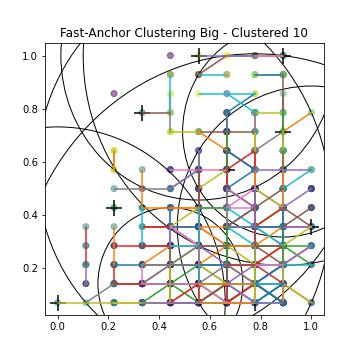
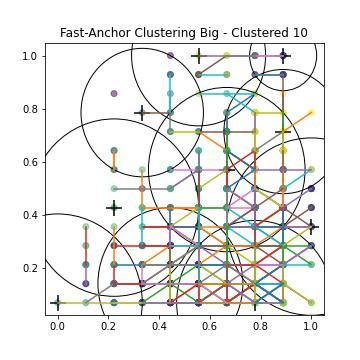
Fixed broken assignation of Points to their centers
Ich bin davon Ausgegangen, dass die Zentren in der Zentrenliste nach Cluster Sortiert sind, was sie offensichtlich nicht sind. Methode zum suchen der nächsten Zentren wurde angepasst

diff --git a/Multicolor-Fair-Clusterin/FastAnchorClustering.cpp b/Multicolor-Fair-Clusterin/FastAnchorClustering.cpp
@@ -272,7 +272,7 @@ vector<int>* fastAnchorClustering::getNearesCenters(vector<ColoredPoint>* points
 
 int fastAnchorClustering::getNextCenterOfPoint(ColoredPoint singlePoint, vector<ColoredPoint>* centers){
     // Als Startwert mal das erste Zentrum wählen
-    int nearestCluster = 0;
+    int nearestCluster = centers->at(0).getCluster();
     double closestDistance = singlePoint.distTo(centers->at(0));
 
     // Durch alle anderen Zentren durchgehen und schauen ob es näher dran ist
@@ -283,7 +283,7 @@ int fastAnchorClustering::getNextCenterOfPoint(ColoredPoint singlePoint, vector<
         // Ist dieses Zentrum besser?
         if (newDistance < closestDistance){
             // Neue Daten abspeichern
-            nearestCluster = i;
+            nearestCluster = centers->at(i).getCluster();
             closestDistance = newDistance;
         }
     }

diff --git a/Multicolor-Fair-Clusterin/Pythonskripte/AutoAnalyzer.py b/Multicolor-Fair-Clusterin/Pythonskripte/AutoAnalyzer.py
@@ -33,6 +33,9 @@ def main():
     compileBinary(withProcessBar=processBar)
     
     # # # Algorithmus ausführen
+    timeBank = do_algorithm("bank", numOfSamples=numOfSamples, maxCluster=maxCluster, algorithm=alg)
+    timeCensus = do_algorithm("census", numOfSamples=numOfSamples, maxCluster=maxCluster, algorithm=alg)
+    timeDiabetes = do_algorithm("diabetes", numOfSamples=numOfSamples, maxCluster=maxCluster, algorithm=alg)
  
     timestamps = [timeBank, timeCensus, timeDiabetes]
     
